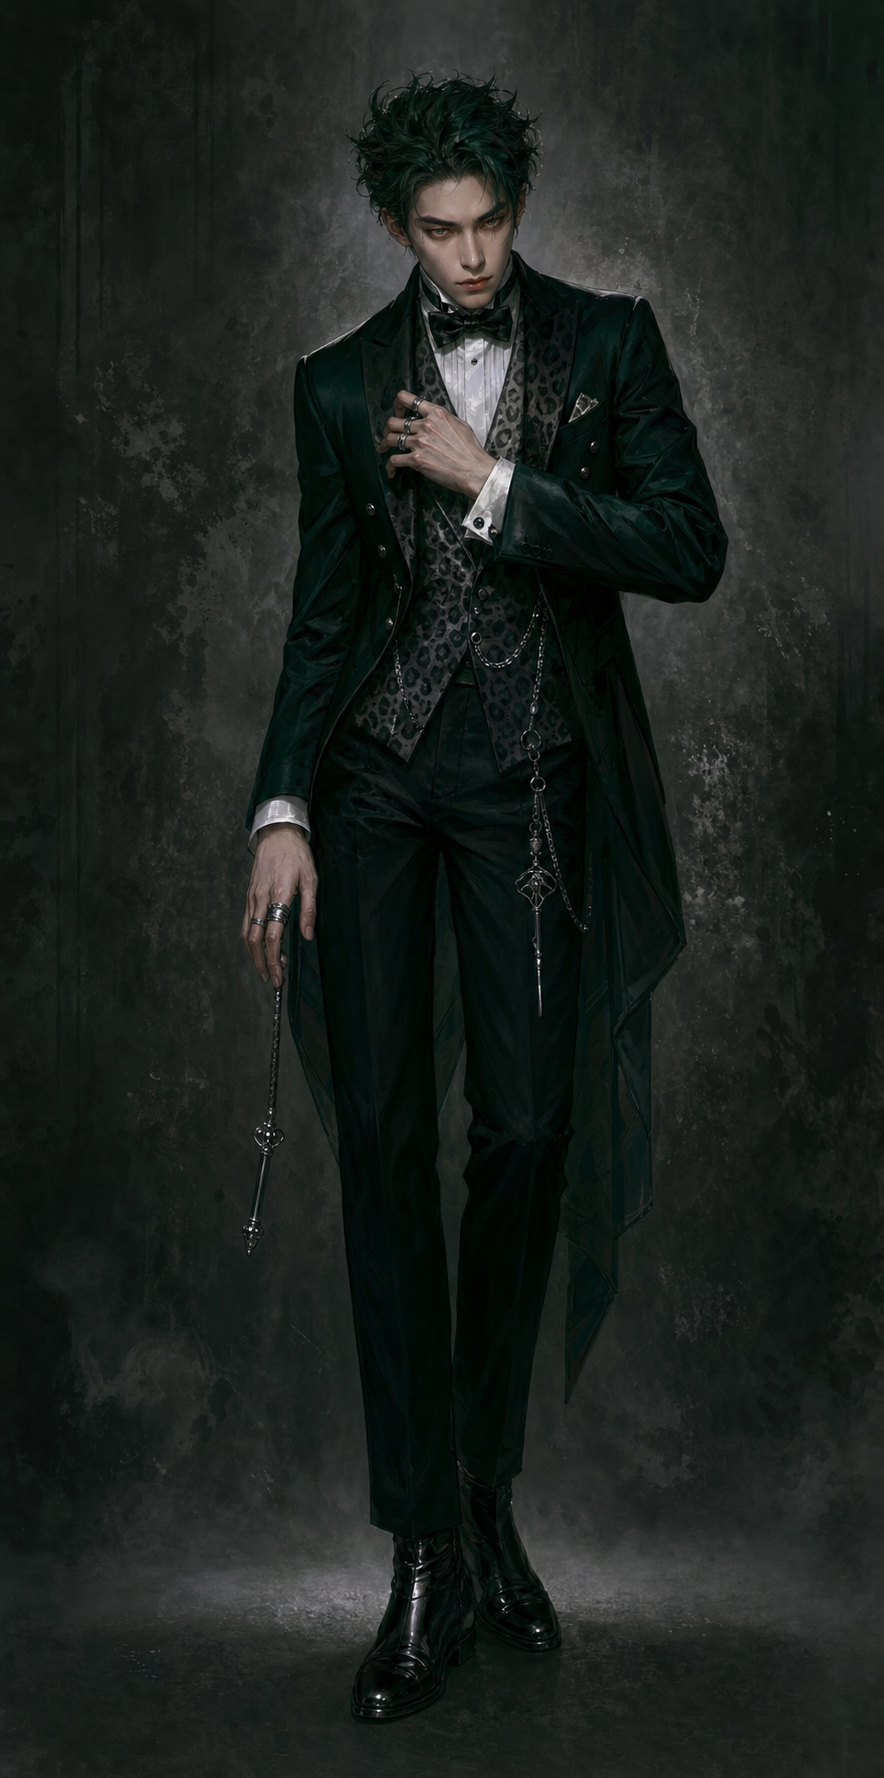
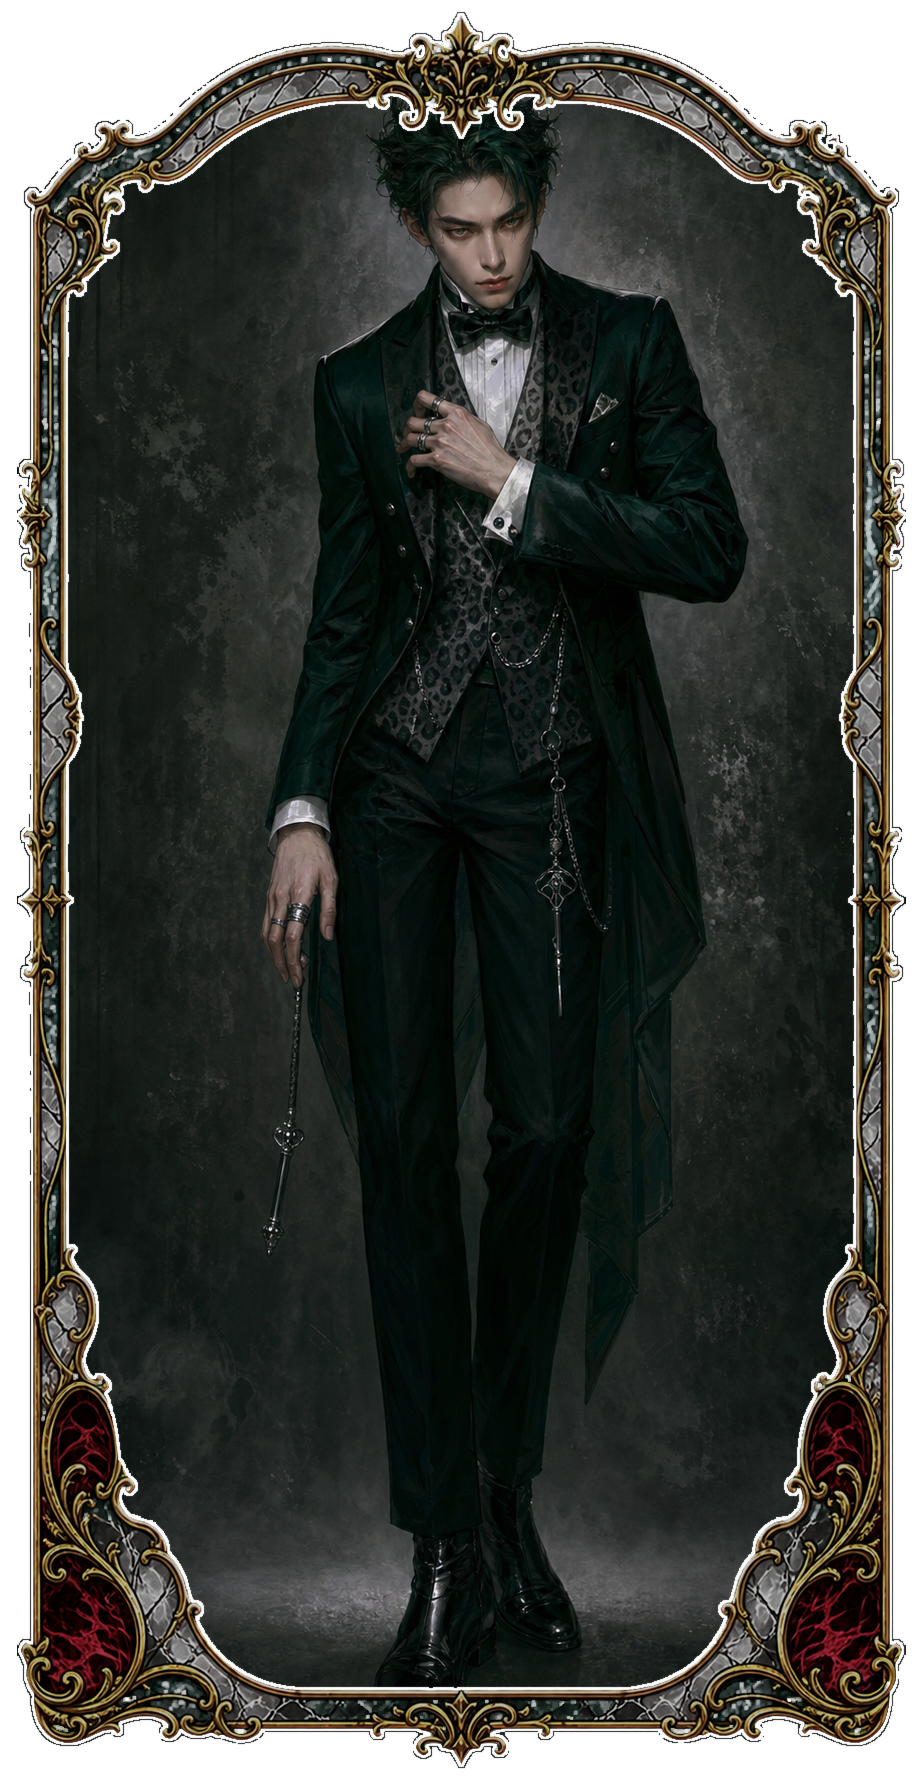
beauty

diff --git a/styles.css b/styles.css
@@ -86,6 +86,17 @@ button {
   pointer-events: none;
 }
 
+.scene-ui-frame {
+  position: absolute;
+  left: -2.5%;
+  top: -2.5%;
+  z-index: 2;
+  width: 105%;
+  height: 105%;
+  object-fit: fill;
+  pointer-events: none;
+}
+
 .start-screen {
   position: absolute;
   inset: 0;
@@ -605,11 +616,14 @@ h1 {
   width: min(1120px, calc(100% - 48px));
   min-height: 214px;
   transform: translateX(-50%);
-  border: 1px solid rgba(215, 173, 99, 0.38);
+  border: 2px solid rgba(215, 173, 99, 0.64);
   background:
     linear-gradient(180deg, rgba(255, 248, 233, 0.08), rgba(255, 248, 233, 0.02)),
     var(--glass);
-  box-shadow: var(--shadow);
+  box-shadow:
+    var(--shadow),
+    inset 0 0 0 1px rgba(255, 248, 233, 0.1),
+    inset 0 0 30px rgba(215, 173, 99, 0.08);
   backdrop-filter: blur(18px);
   padding: 18px 22px 16px;
 }
@@ -617,8 +631,26 @@ h1 {
 .story-panel::before {
   content: "";
   position: absolute;
-  inset: 9px;
-  border: 1px solid rgba(255, 248, 233, 0.1);
+  inset: 8px;
+  border: 1px solid rgba(255, 248, 233, 0.18);
+  box-shadow: inset 0 0 0 1px rgba(10, 8, 8, 0.48);
+  pointer-events: none;
+}
+
+.story-panel::after {
+  content: "";
+  position: absolute;
+  inset: -2px;
+  background:
+    linear-gradient(var(--gold), var(--gold)) left 14px top -1px / 54px 2px no-repeat,
+    linear-gradient(var(--gold), var(--gold)) right 14px top -1px / 54px 2px no-repeat,
+    linear-gradient(var(--gold), var(--gold)) left 14px bottom -1px / 54px 2px no-repeat,
+    linear-gradient(var(--gold), var(--gold)) right 14px bottom -1px / 54px 2px no-repeat,
+    linear-gradient(var(--gold), var(--gold)) left -1px top 14px / 2px 42px no-repeat,
+    linear-gradient(var(--gold), var(--gold)) right -1px top 14px / 2px 42px no-repeat,
+    linear-gradient(var(--gold), var(--gold)) left -1px bottom 14px / 2px 42px no-repeat,
+    linear-gradient(var(--gold), var(--gold)) right -1px bottom 14px / 2px 42px no-repeat;
+  opacity: 0.72;
   pointer-events: none;
 }
 

diff --git a/index.html b/index.html
@@ -12,6 +12,7 @@
       <section class="stage" aria-live="polite">
         <img class="scene-bg" id="sceneBg" alt="">
         <div class="scene-shade" aria-hidden="true"></div>
+        <img class="scene-ui-frame" src="assets/images/ui-mirror-overlay-frame.png" alt="" aria-hidden="true">
         <img class="scene-item" id="sceneItem" alt="" hidden>
         <div class="scene-frame-text" id="sceneFrameText" hidden></div>
         <button class="frame-page-button frame-page-prev" type="button" id="framePrevButton" title="上一页" hidden>‹</button>
